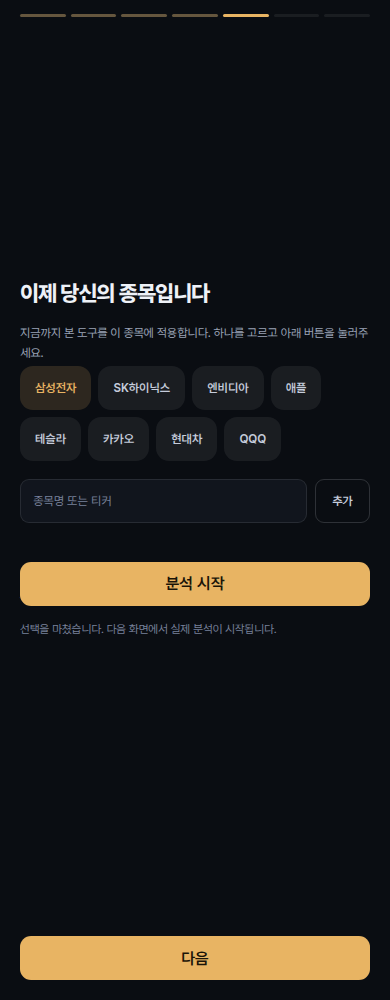
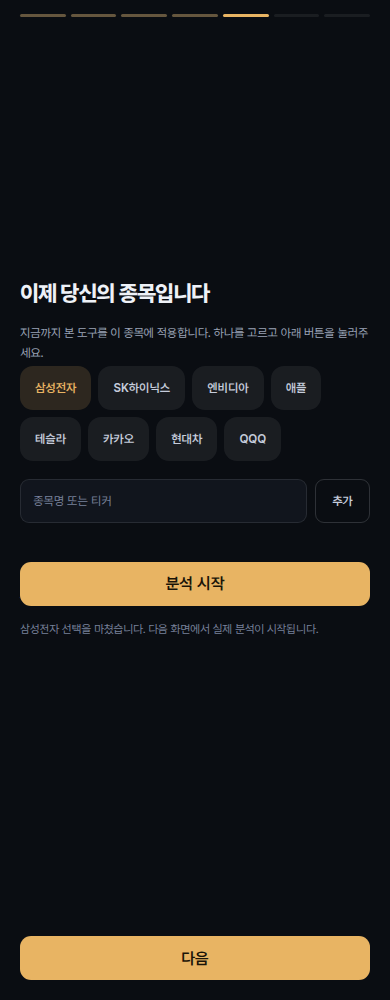
fix(mobile): 온보딩 5단계 리뷰 1/5 — 확정 무효화 · 봉 부족 오탐(C1·C2)
C1: 확정한 뒤 선택을 바꿔도(해제 후 재선택) canAdvance(5)가 계속 열려 있었다.
onChange가 state.pickError만 지우고 state.sym/symName/tut/r1/r2/r3/picked를
그대로 뒀기 때문이다 — commit()이 채우는 필드와 정확히 같은 것을 비우는
invalidateConfirmed()를 추가하고, 선택이 확정과 달라지면(또는 지워지면) 호출한다.
obPickReadySuffix 표시에 확정 종목명을 앞에 붙여, 화면상 선택과 실제 확정이
어긋나도 사용자가 눈치챌 수 있게 했다.

C2: 온보딩의 로컬 문턱(MIN_BARS=60)이 api.js의 실제 하한(1day=220)과 달라
죽은 코드였다 — 60~219봉짜리 종목은 이미 normalizeCandles()가 notfound 플래그
없는 일반 Error로 던지는데, 온보딩은 그걸 else 분기로 흘려 조용히 번들 표본으로
치환했다. api.js에 isBarsShort(err)를 새로 두고(report.js의 중복 로직을 그
함수로 위임) 온보딩도 같은 함수를 불러 판별한다. 로컬 문턱은 죽은 값이라
지웠다 — 두 곳에 다른 숫자를 두지 않는다.

두 회귀 시험 모두 수정 전 코드로 되돌려 실제로 빨개지는 것을 확인한 뒤 복구했다
(mutation 증명). C2 시험은 손으로 짠 가짜 MSApi 대신 실물 www/api.js +
mocked fetch로 실제 오류 모양(err.notfound 유무·err.message 접두)을 재현한다.

Minor: ticker-picker.js의 "온보딩 4단계" 주석을 5단계로 정정. store.js의
TUTORIAL_SYMS(참조처 없음, tutSyms/tutPicks 삭제로 죽은 export가 됨) 제거.

테스트: node --test test/onboarding.test.mjs 84건, ./tests/run.sh 전량 1666건,
gate-browser.mjs 8/8 통과.

Changed region(s): [[0.0615, 0.62, 0.8, 0.651]]

diff --git a/map/mobile/www/screens/onboarding.js b/map/mobile/www/screens/onboarding.js
@@ -240,7 +240,12 @@
     // "못 찾음"·"봉 부족"은 진짜 실패로 다루고(막다른 골목 없이 다른 종목을 고를 수 있게
     // 한다), API 층 자체가 아예 없는 환경(빌드/미리보기)에서만 예전처럼 번들로 물러선다 —
     // 그건 종목의 문제가 아니라 환경의 문제이기 때문이다.
-    var MIN_BARS = 60;   // 기존 폴백 문턱과 동일 — 이 아래면 지표가 사실상 계산되지 않는다
+    // 리뷰 C2 — 옛 로컬 문턱(MIN_BARS=60)을 지웠다. api.js 의 normalizeCandles() 가 1day 에
+    // 이미 220을 강제한다(scanAlerts 와 같은 기준) — 그래서 Promise 가 성공으로 떨어지면
+    // 그 시점에 이미 충분한 봉이라는 뜻이고, `> 60` 검사는 항상 참인 죽은 코드였다(리뷰어
+    // 실측: 80봉짜리 종목조차 normalizeCandles 단계에서 이미 던진다, notfound 플래그 없이).
+    // "봉 부족"은 이제 그 실패(캐치 쪽 MSApi.isBarsShort)로만 판별한다 — 두 곳에 서로 다른
+    // 숫자(60 vs 220)를 두지 않는다.
     function loadPick(pick, done) {
       // 그 사이 사용자가 다른 종목을 새로 골랐으면 이 응답은 이미 낡았다 — 버린다
       // (verifyPick 이 checking 을 시작할 때의 pick 을 그대로 캡처해 넘기므로, 여기서
@@ -264,12 +269,25 @@
       var s = sample();
       if (typeof MSApi === "undefined" || !MSApi.loadTicker) { commit(s, true); return; }   // API 층 자체가 없다 — 환경 문제
       MSApi.loadTicker(pick.sym, TF).then(function (d) {
-        if (d && d.candle && d.candle.length > MIN_BARS) commit(d, false);
-        else fail("thin");                                    // 찾았지만 봉이 부족하다
+        if (d && d.candle && d.candle.length) commit(d, false);
+        else fail("thin");   // 응답은 왔는데 봉이 비어 있다(방어적 — normalizeCandles 를 통과했다면 보통 없다)
       })["catch"](function (err) {
-        if (err && err.notfound) fail("notfound");             // 종목을 못 찾았다
-        else commit(s, true);                                  // 네트워크 문제 — 종목이 아니라 접속 문제라 번들로 물러선다
+        // report.js 와 같은 판별 함수(MSApi.isBarsShort, api.js 소유) — 문자열을 다시
+        // 매칭하지 않는다. 리뷰 C2 전에는 이 갈래가 아예 없어서 봉 부족(220 미만, notfound
+        // 플래그 없는 일반 Error)이 else 로 새어 조용히 번들 표본으로 치환됐다.
+        if (typeof MSApi !== "undefined" && MSApi.isBarsShort && MSApi.isBarsShort(err)) fail("thin");
+        else if (err && err.notfound) fail("notfound");        // 종목을 못 찾았다
+        else commit(s, true);   // 그 외 네트워크 문제 — 종목이 아니라 접속 문제라 번들로 물러선다
       });
+    }
+
+    // 확정 산물을 되돌린다 — commit() 이 채우는 것과 정확히 같은 필드를 비운다(리뷰 C1).
+    // 선택이 바뀌면(다른 종목을 고르거나 고른 것을 지우면) 이전 [분석 시작] 결과는 더는
+    // 유효하지 않다 — 안 지우면 확정 뒤 다른 칩으로 바꿔도 "다음"이 계속 열린 채로 남고,
+    // 화면엔 새 종목이 선택돼 있는데 다음 단계로 넘어가는 건 옛 종목의 분석 결과가 된다.
+    function invalidateConfirmed() {
+      state.sym = null; state.symName = null; state.tut = null;
+      state.r1 = null; state.r2 = null; state.r3 = null; state.picked = [];
     }
 
     // ── 1단계: 콜드 오픈 ─────────────────────────────────────────────────────────
@@ -826,8 +844,13 @@
         multi: true, max: 1,
         preset: state.pick ? [state.pick] : [],
         onChange: function (selSyms, items) {
-          // 새로 고른 순간 이전 시도의 오류·확정은 의미를 잃는다 — 다시 확인해야 한다.
-          state.pick = items.length ? items[0] : null;
+          var next = items.length ? items[0] : null;
+          // 리뷰 C1 — 확정된 종목과 다른 선택이면(또는 선택을 지우면) 이전 확정을
+          // 무효화한다. pickError 만 지우던 옛 코드는 state.sym/tut/r1/r2 가 그대로
+          // 남아 canAdvance(5)(=!!state.sym)가 계속 열려 있었다 — 화면엔 새 종목이
+          // 선택돼 있는데 다음으로 넘어가면 옛 종목의 분석 결과가 나가는 버그였다.
+          if (state.sym && (!next || next.sym !== state.sym)) invalidateConfirmed();
+          state.pick = next;
           state.pickError = null;
           draw();
         }
@@ -866,7 +889,9 @@
         });
         w.appendChild(retry);
       } else if (state.sym) {
-        w.appendChild(el("p", "ob-note", MSStr.t.obPickReady));
+        // 어느 종목을 확정했는지 이름을 담는다(리뷰 C1) — 문구가 종목명을 안 담으면
+        // "선택 표시(칩)"와 "실제로 확정된 종목"이 어긋나도 사용자가 눈치챌 수 없다.
+        w.appendChild(el("p", "ob-note", state.symName + MSStr.t.obPickReadySuffix));
       }
 
       return w;

diff --git a/map/mobile/www/ticker-picker.js b/map/mobile/www/ticker-picker.js
@@ -1,4 +1,4 @@
-// 종목 고르기. 온보딩 4단계(다중)와 워치리스트 ＋Add(단일)가 같은 화면을 쓴다 —
+// 종목 고르기. 온보딩 5단계(다중)와 워치리스트 ＋Add(단일)가 같은 화면을 쓴다 —
 // 온보딩 안에 묻어두면 둘이 갈리고, 예쁜 온보딩 옆에 브라우저 prompt 대화상자가 남는다(watchlist.js
 // 의 옛 startAddTicker 가 그것이었다 — Task 6 에서 이 컴포넌트로 교체됐다). 이 컴포넌트는 그
 // 화면들이 무엇으로 추가를 시작했는지 몰라야 한다 — 잇는 일은 이 화면들 쪽 배선의 몫).
@@ -14,7 +14,7 @@
 
   // 시안 12a 그대로 — 국내 2종을 맨 앞에 둔다(한국 사용자가 먼저 보는 자리). 예전 목록(미국
   // 기술주 12종)은 "한국 우선" 이라는 시안의 의도와 반대 방향이었다 — 코디네이터 판정(2026-08-16)
-  // 으로 이 여덟 개로 교체했다. 이 목록은 온보딩 4단계도 함께 쓴다(같은 컴포넌트) — 그 화면의
+  // 으로 이 여덟 개로 교체했다. 이 목록은 온보딩 5단계도 함께 쓴다(같은 컴포넌트) — 그 화면의
   // 칩도 이 여덟 개로 바뀌는 것은 부작용이 아니라 의도된 결과다.
   var CURATED = [
     { sym: "005930", name: "삼성전자" }, { sym: "000660", name: "SK하이닉스" },
@@ -53,7 +53,7 @@
     var api = o.api || (typeof MSApi !== "undefined" ? MSApi : null);
     var multi = !!o.multi;
     var max = (o.max == null) ? null : o.max;
-    // preset 항목은 심볼 문자열이거나(옛 호출부), {sym,name} 객체(온보딩 4단계 — CURATED 밖
+    // preset 항목은 심볼 문자열이거나(옛 호출부), {sym,name} 객체(온보딩 5단계 — CURATED 밖
     // 프리셋에 이름을 함께 실어 보낸다)다. 둘 다 받는다 — norm() 에 객체를 그대로 넣으면
     // "[object Object]" 가 심볼이 된다.
     var presetList = o.preset || [];
@@ -66,7 +66,7 @@
     var grid = MSUi.el("div", "tp-grid");
     var msg = MSUi.el("p", "tp-msg");
     // 시안 12a 의 제목·"많이 보는 종목" 라벨·자물쇠 설명문·확인 버튼은 단일 모드(워치리스트
-    // ＋Add) 전용 chrome 이다. 온보딩 4단계(multi)는 이미 자기 제목(obH4/obSub4)을 갖고
+    // ＋Add) 전용 chrome 이다. 온보딩 5단계(multi)는 이미 자기 제목(obPickH/obPickSub)을 갖고
     // 있어 여기서 또 그리면 두 벌이 된다 — 그 화면은 그대로 grid+검색+안내만 받는다.
     var chrome = !multi;
 
@@ -120,7 +120,7 @@
       CURATED.forEach(function (x) { grid.appendChild(chip(x.sym, x.name)); });
       // CURATED 밖에서 본 적 있는 심볼도 전부 칩으로 그린다(offSeen — 지금 선택 여부와 무관하게) —
       // sel 만 보고 그리면 selected()는 참인데 격자엔 아무 칩도 없어 "고른 게 하나도 없어 보이는"
-      // 화면이 되고(온보딩 4단계 프리셋이 워치리스트 전체가 CURATED 밖일 때 실측), sel 만 보고
+      // 화면이 되고(온보딩 5단계 프리셋이 워치리스트 전체가 CURATED 밖일 때 실측), sel 만 보고
       // "선택된 것만" 그리면 끄는 순간 칩이 통째로 사라져 다시 켤 방법이 없어진다(리뷰 지적 —
       // 되돌리려면 loadTicker 재왕복이 필요했고 오프라인이면 그마저 안 됐다). curated 8종
       // 순서는 그대로 두고 뒤에 이어붙인다(offSeen 순서 = 프리셋/추가로 처음 본 순서).
@@ -132,7 +132,7 @@
     // next.length !== sel.length(줄어듦)이라 이 조건에 안 걸려 정상적으로 반영된다.
     // (주의: hadIt && !multi 로 단일 모드 교체를 상한 로직과 섞지 않는다 — 단일 모드는
     // 애초에 toggle 을 거치지 않고 항상 [sym] 으로 교체한다.)
-    // 잠긴 심볼 = 이미 사용자의 워치리스트에 있는 것. 온보딩 4단계가 기존 목록을 프리셋으로
+    // 잠긴 심볼 = 이미 사용자의 워치리스트에 있는 것. 온보딩 5단계가 기존 목록을 프리셋으로
     // 받으면서 그 화면이 "내 목록 편집"처럼 보이게 됐는데, seedTo 는 추가만 하므로 여기서
     // 꺼도 실제로는 안 빠졌다 — 화면이 거짓말을 했다. 온보딩에서 목록이 지워지는 경로를
     // 만드는 대신(실수로 자기 목록을 날릴 수 있다) 해제 자체를 막고 이유를 말한다.

diff --git a/map/mobile/www/store.js b/map/mobile/www/store.js
@@ -14,9 +14,9 @@
   // 프리셋으로 그릴 때 같은 종목이 화면마다 다른 이름으로 보인다(카드추가 항목 1).
   // MSFT 는 새 CURATED 8종 밖이라 표준 이름이 이 파일뿐이다.
   var SEED = [{ sym: "AAPL", name: "애플" }, { sym: "NVDA", name: "엔비디아" }, { sym: "MSFT", name: "마이크로소프트" }];
-  // 온보딩 체험(시안 16a)이 제시하는 종목 정확히 3개. 이름은 여기 두지 않는다 —
-  // ticker-picker 의 CURATED 가 이름의 정본이고, 심볼만 있으면 거기서 찾는다.
-  var TUTORIAL_SYMS = ["AAPL", "005930", "NVDA"];
+  // TUTORIAL_SYMS(옛 시안 16a "체험 종목 정확히 3개")는 Task 6 리뷰(Minor)에서 지웠다 —
+  // 온보딩 5단계가 ticker-picker.js 의 CURATED 8종을 직접 쓰면서(tutSyms/tutPicks 삭제)
+  // 이 export 를 참조하는 곳이 www/·test/ 어디에도 안 남았다(grep 로 확인).
 
   var mem = {};                       // 백엔드 실패 시 폴백 저장소
   var backend = null;
@@ -190,7 +190,7 @@
     return list;
   }
 
-  return { KEYS: KEYS, SEED: SEED, TUTORIAL_SYMS: TUTORIAL_SYMS, PRED_MAX: PRED_MAX,
+  return { KEYS: KEYS, SEED: SEED, PRED_MAX: PRED_MAX,
            replayOnboarding: replayOnboarding,
            getPreds: getPreds, setPreds: setPreds, addPred: addPred,
            settlePred: settlePred, markPredSeen: markPredSeen, install: install, getWatchlist: getWatchlist, setWatchlist: setWatchlist,

diff --git a/map/mobile/www/api.js b/map/mobile/www/api.js
@@ -66,6 +66,15 @@
     };
   }
 
+  // 봉 부족 오류인지 판별한다 — normalizeCandles() 가 던지는 그 메시지 접두(rpBarsShort)로
+  // 안다. report.js 가 원래 이 판별을 자기 파일 안에 따로 갖고 있었다(같은 로직을 다시
+  // 짰다) — 여기(오류를 만드는 자리)로 올려 report.js·온보딩 5단계가 함수 하나를 같이
+  // 부르게 한다. 문자열을 다시 매칭하는 코드가 두 곳에 있으면 접두가 바뀔 때 한쪽만 낡는다.
+  function isBarsShort(err) {
+    return !!(err && typeof err.message === "string" &&
+      err.message.indexOf(typeof MSStr !== "undefined" ? MSStr.t.rpBarsShort : "not enough bars") === 0);
+  }
+
   // 조회 + 오타 구제. 서버가 notfound 일 때 Yahoo 기반 제안을 최대 3건 준다(forge-api.php).
   function loadTicker(symbol, tf, fetchImpl) {
     var f = fetchImpl || (typeof fetch === "function" ? fetch : null);
@@ -78,5 +87,6 @@
     });
   }
 
-  return { API_BASE: API_BASE, MIN_BARS: MIN_BARS, ohlcUrl: ohlcUrl, normalizeCandles: normalizeCandles, loadTicker: loadTicker };
+  return { API_BASE: API_BASE, MIN_BARS: MIN_BARS, ohlcUrl: ohlcUrl, normalizeCandles: normalizeCandles,
+           isBarsShort: isBarsShort, loadTicker: loadTicker };
 });

diff --git a/map/mobile/www/screens/report.js b/map/mobile/www/screens/report.js
@@ -152,9 +152,10 @@
   // 폴백 색이 두 벌이 되는 것을 막았다(ui.js).
   function colTokens() { return MSUi.colTokens(); }
 
-  // api.js 가 봉 부족을 알릴 때 rpBarsShort 로 시작하는 영문 메시지를 던진다(api.js:28) — 그 접두를
-  // MSStr 단일 출처에서 그대로 재사용해 여기·표시 문구가 따로 놀지 않게 한다.
-  function isBarsShort(err) { return !!(err && typeof err.message === "string" && err.message.indexOf(MSStr.t.rpBarsShort) === 0); }
+  // 이 판별 자체는 이제 api.js 가 소유한다(오류를 만드는 자리와 같은 파일) — 온보딩 5단계도
+  // MSApi.isBarsShort 를 그대로 부른다(Task 6 리뷰 C2). 여기서 다시 문자열을 매칭하면
+  // rpBarsShort 접두가 바뀔 때 한쪽만 낡는다.
+  function isBarsShort(err) { return MSApi.isBarsShort(err); }
   function loadOne(sym) { return MSApi.loadTicker(sym, TF); }
   function dirWord(regime) { return regime === "bull" ? MSStr.t.rpUp : regime === "bear" ? MSStr.t.rpDown : MSStr.t.rpFlat; }
 

diff --git a/map/mobile/www/strings.js b/map/mobile/www/strings.js
@@ -618,7 +618,9 @@
     obPickSelectedA: "선택: ",
     obPickStart: "분석 시작",
     obPickChecking: "종목을 확인하는 중…",
-    obPickReady: "선택을 마쳤습니다. 다음 화면에서 실제 분석이 시작됩니다.",
+    // 앞에 종목명을 이어붙여 쓴다(state.symName + ...) — 리뷰 C1: 어느 종목이 확정됐는지
+    // 문구에 담아야 화면상 선택(칩)과 실제 확정이 어긋나는 것을 사용자가 눈치챌 수 있다.
+    obPickReadySuffix: " 선택을 마쳤습니다. 다음 화면에서 실제 분석이 시작됩니다.",
     // 막다른 골목 금지(설계서 §4.5) — 둘 다 "다른 종목 선택" 버튼과 짝을 이룬다(화면 쪽
     // .ob-retry). 텍스트만 던지고 끝나면 사용자가 갇힌다.
     obPickNotFound: "이 종목을 찾을 수 없습니다.",
